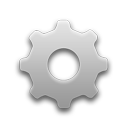
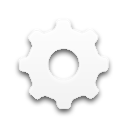
More animations int he control panel

Changed region(s): [[0.125, 0.1562, 0.875, 0.875]]

diff --git a/src/main/java/com/quiltplayer/view/swing/buttons/QControlPanelButton.java b/src/main/java/com/quiltplayer/view/swing/buttons/QControlPanelButton.java
@@ -16,6 +16,9 @@ import javax.swing.Icon;
 import javax.swing.JButton;
 import javax.swing.SwingConstants;
 
+import org.jdesktop.animation.timing.Animator;
+import org.jdesktop.animation.timing.interpolation.PropertySetter;
+
 import com.quiltplayer.view.swing.FontFactory;
 
 /**
@@ -24,20 +27,24 @@ import com.quiltplayer.view.swing.FontFactory;
  * @author Vlado Palczynski.
  */
 public class QControlPanelButton extends JButton {
-    private static final long serialVersionUID = 1L;
 
-    private Icon icon;
+    private static final long serialVersionUID = 1L;
 
     private String label;
 
-    private float alpha = 0.6f;
+    private float defaultAlpha = 0.3f;
+
+    private float alpha = defaultAlpha;
+
+    private float highlightAlpha = 1.0f;
 
     private boolean active;
+
+    private Animator animator = new Animator(0);
 
     public QControlPanelButton(String label, Icon icon) {
         super(" ", icon);
 
-        this.icon = icon;
         this.label = label;
 
         setVerticalTextPosition(AbstractButton.BOTTOM);
@@ -71,10 +78,18 @@ public class QControlPanelButton extends JButton {
          */
         @Override
         public void mouseEntered(MouseEvent e) {
-            alpha = 1f;
-            setText(label);
+            if (!active) {
 
-            repaint();
+                if (animator.isRunning())
+                    animator.stop();
+
+                PropertySetter setter = new PropertySetter(e.getSource(), "alpha", alpha,
+                        highlightAlpha);
+                animator = new Animator(500, setter);
+                animator.start();
+
+                setText(label);
+            }
         }
 
         /*
@@ -85,13 +100,26 @@ public class QControlPanelButton extends JButton {
         @Override
         public void mouseExited(MouseEvent e) {
             if (!active) {
-                alpha = 0.6f;
+                if (animator.isRunning())
+                    animator.stop();
+
+                animateToDefault((QControlPanelButton) e.getSource());
+
                 setText(" ");
 
                 repaint();
             }
         }
     };
+
+    private void animateToDefault(QControlPanelButton button) {
+        if (animator.isRunning())
+            animator.stop();
+
+        PropertySetter setter = new PropertySetter(button, "alpha", alpha, defaultAlpha);
+        animator = new Animator(500, setter);
+        animator.start();
+    }
 
     // Paint the round background and label.
     protected void paintComponent(Graphics g) {
@@ -122,19 +150,20 @@ public class QControlPanelButton extends JButton {
     }
 
     public void inactivate() {
-        alpha = 0.6f;
         setText(" ");
         active = false;
+
+        animateToDefault(this);
 
         repaint();
     }
 
     public void activate() {
-        alpha = 1f;
-        setText(label);
         active = true;
 
-        repaint();
+        PropertySetter setter = new PropertySetter(this, "alpha", highlightAlpha, defaultAlpha);
+        animator = new Animator(1000, Animator.INFINITE, Animator.RepeatBehavior.REVERSE, setter);
+        animator.start();
     }
 
     /*
@@ -144,5 +173,22 @@ public class QControlPanelButton extends JButton {
     private AlphaComposite makeComposite() {
         int type = AlphaComposite.SRC_OVER;
         return (AlphaComposite.getInstance(type, alpha));
+    }
+
+    /**
+     * @return the alpha
+     */
+    public final float getAlpha() {
+        return alpha;
+    }
+
+    /**
+     * @param alpha
+     *            the alpha to set
+     */
+    public final void setAlpha(float alpha) {
+        this.alpha = alpha;
+
+        repaint();
     }
 }
